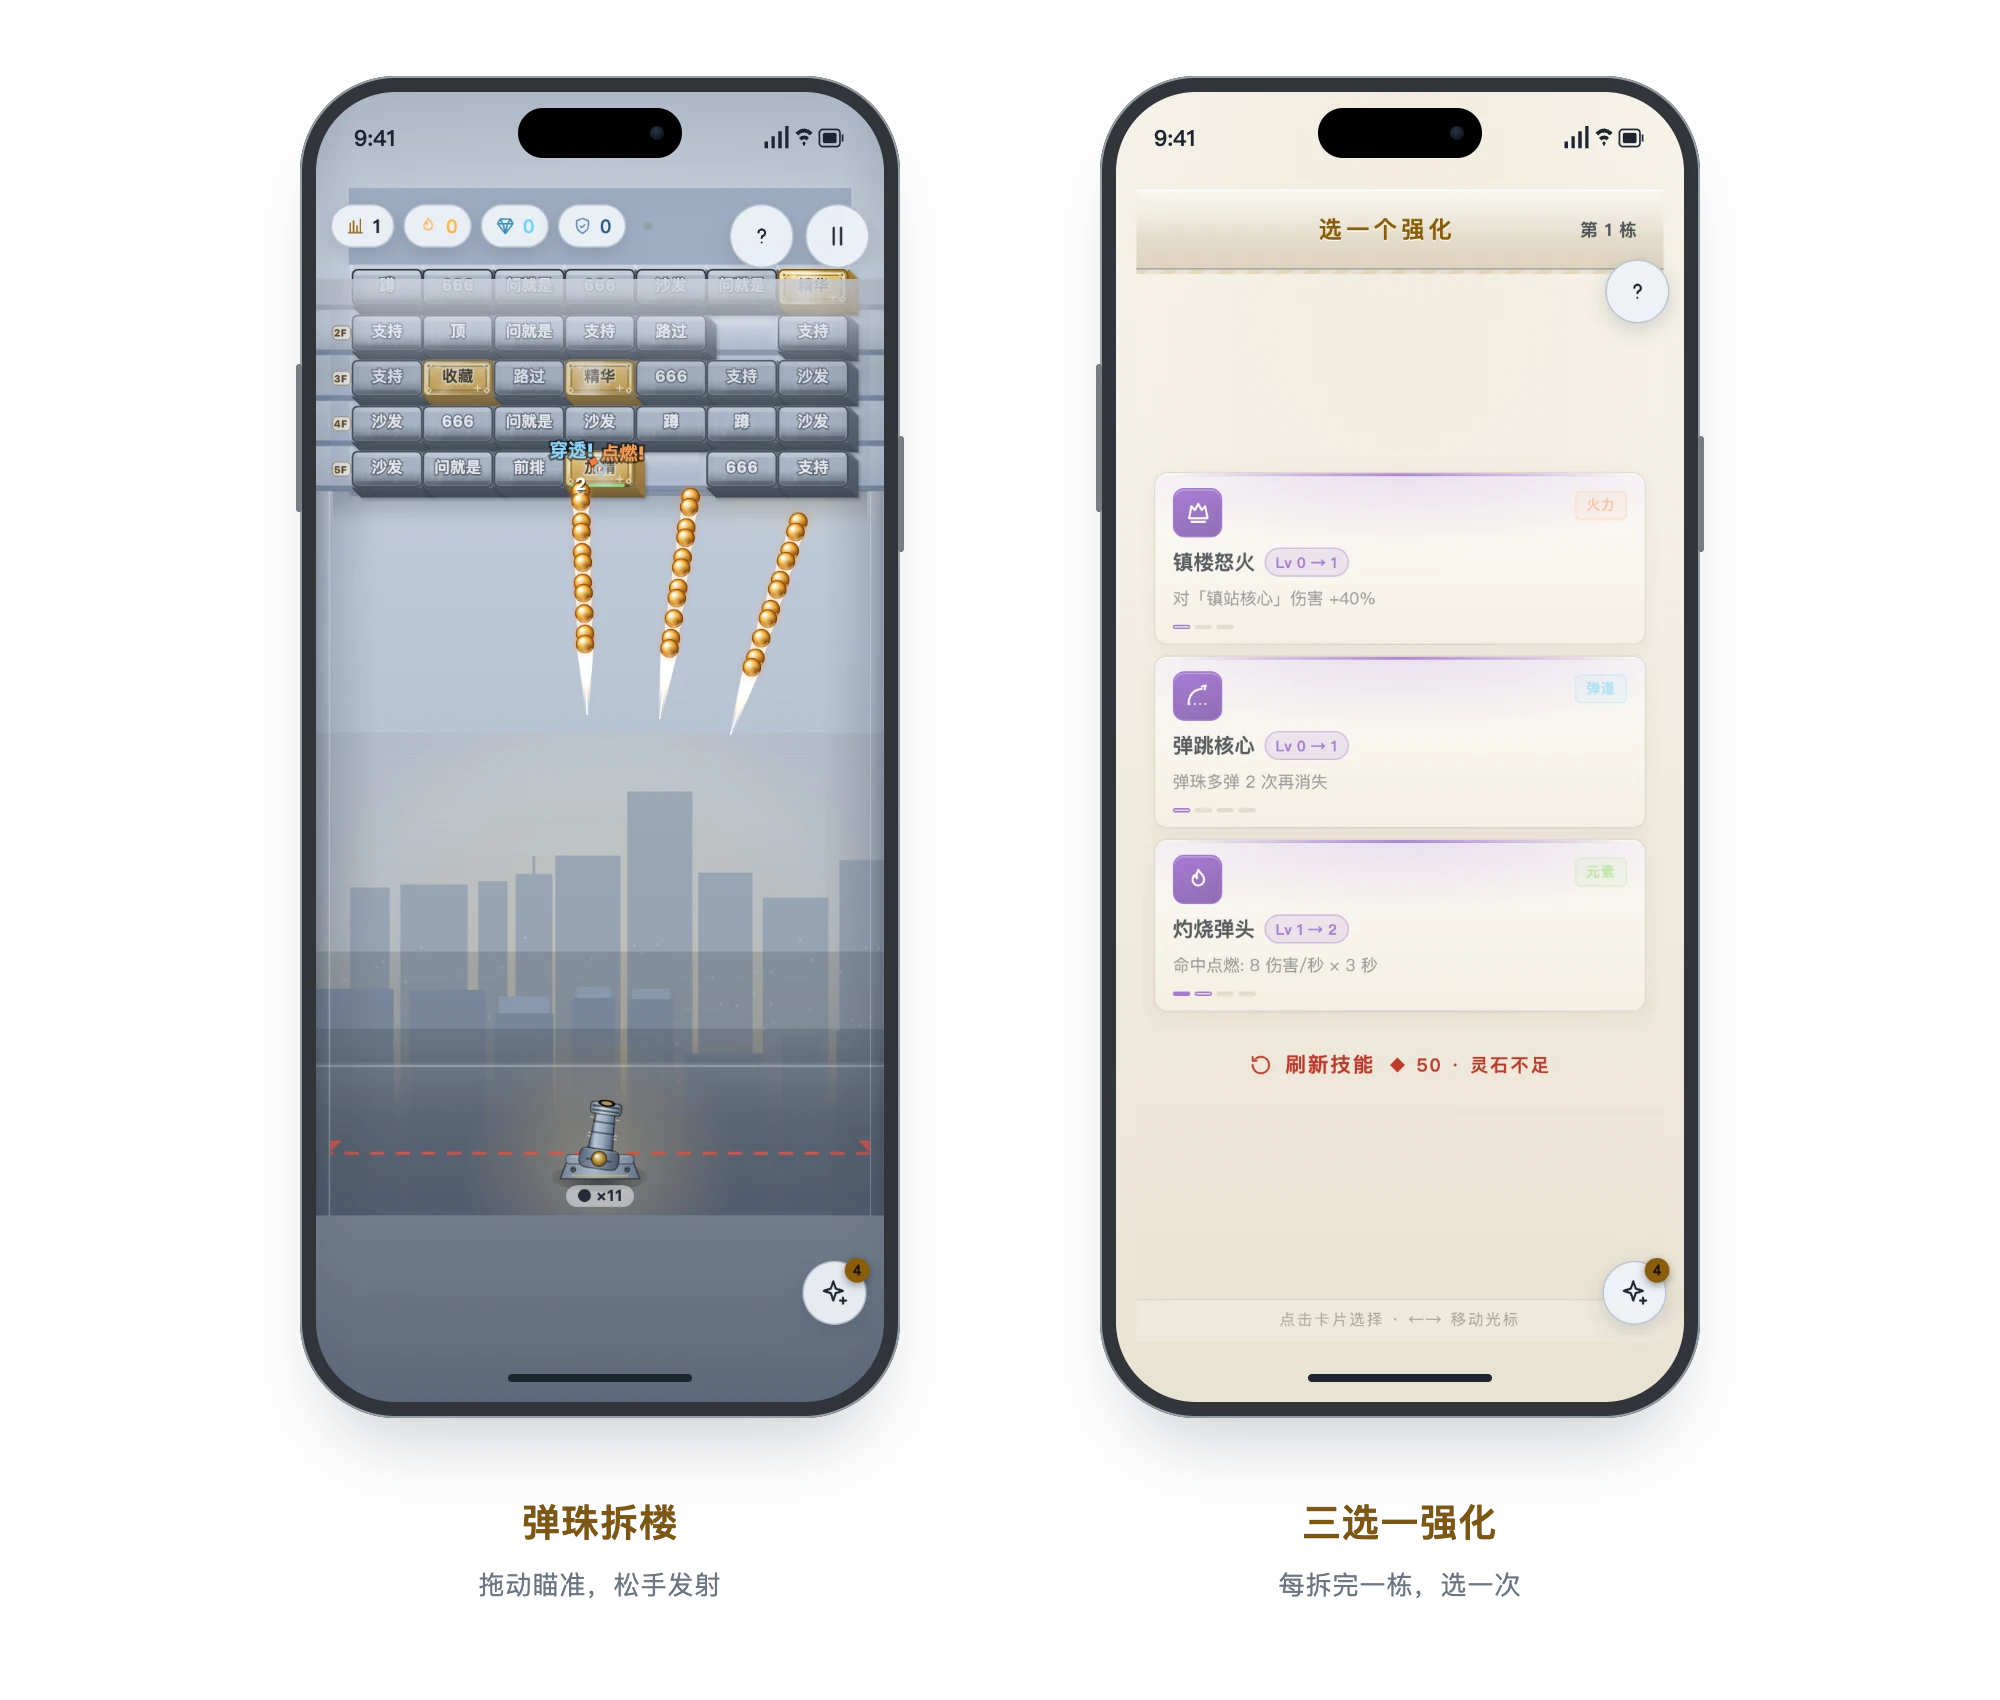
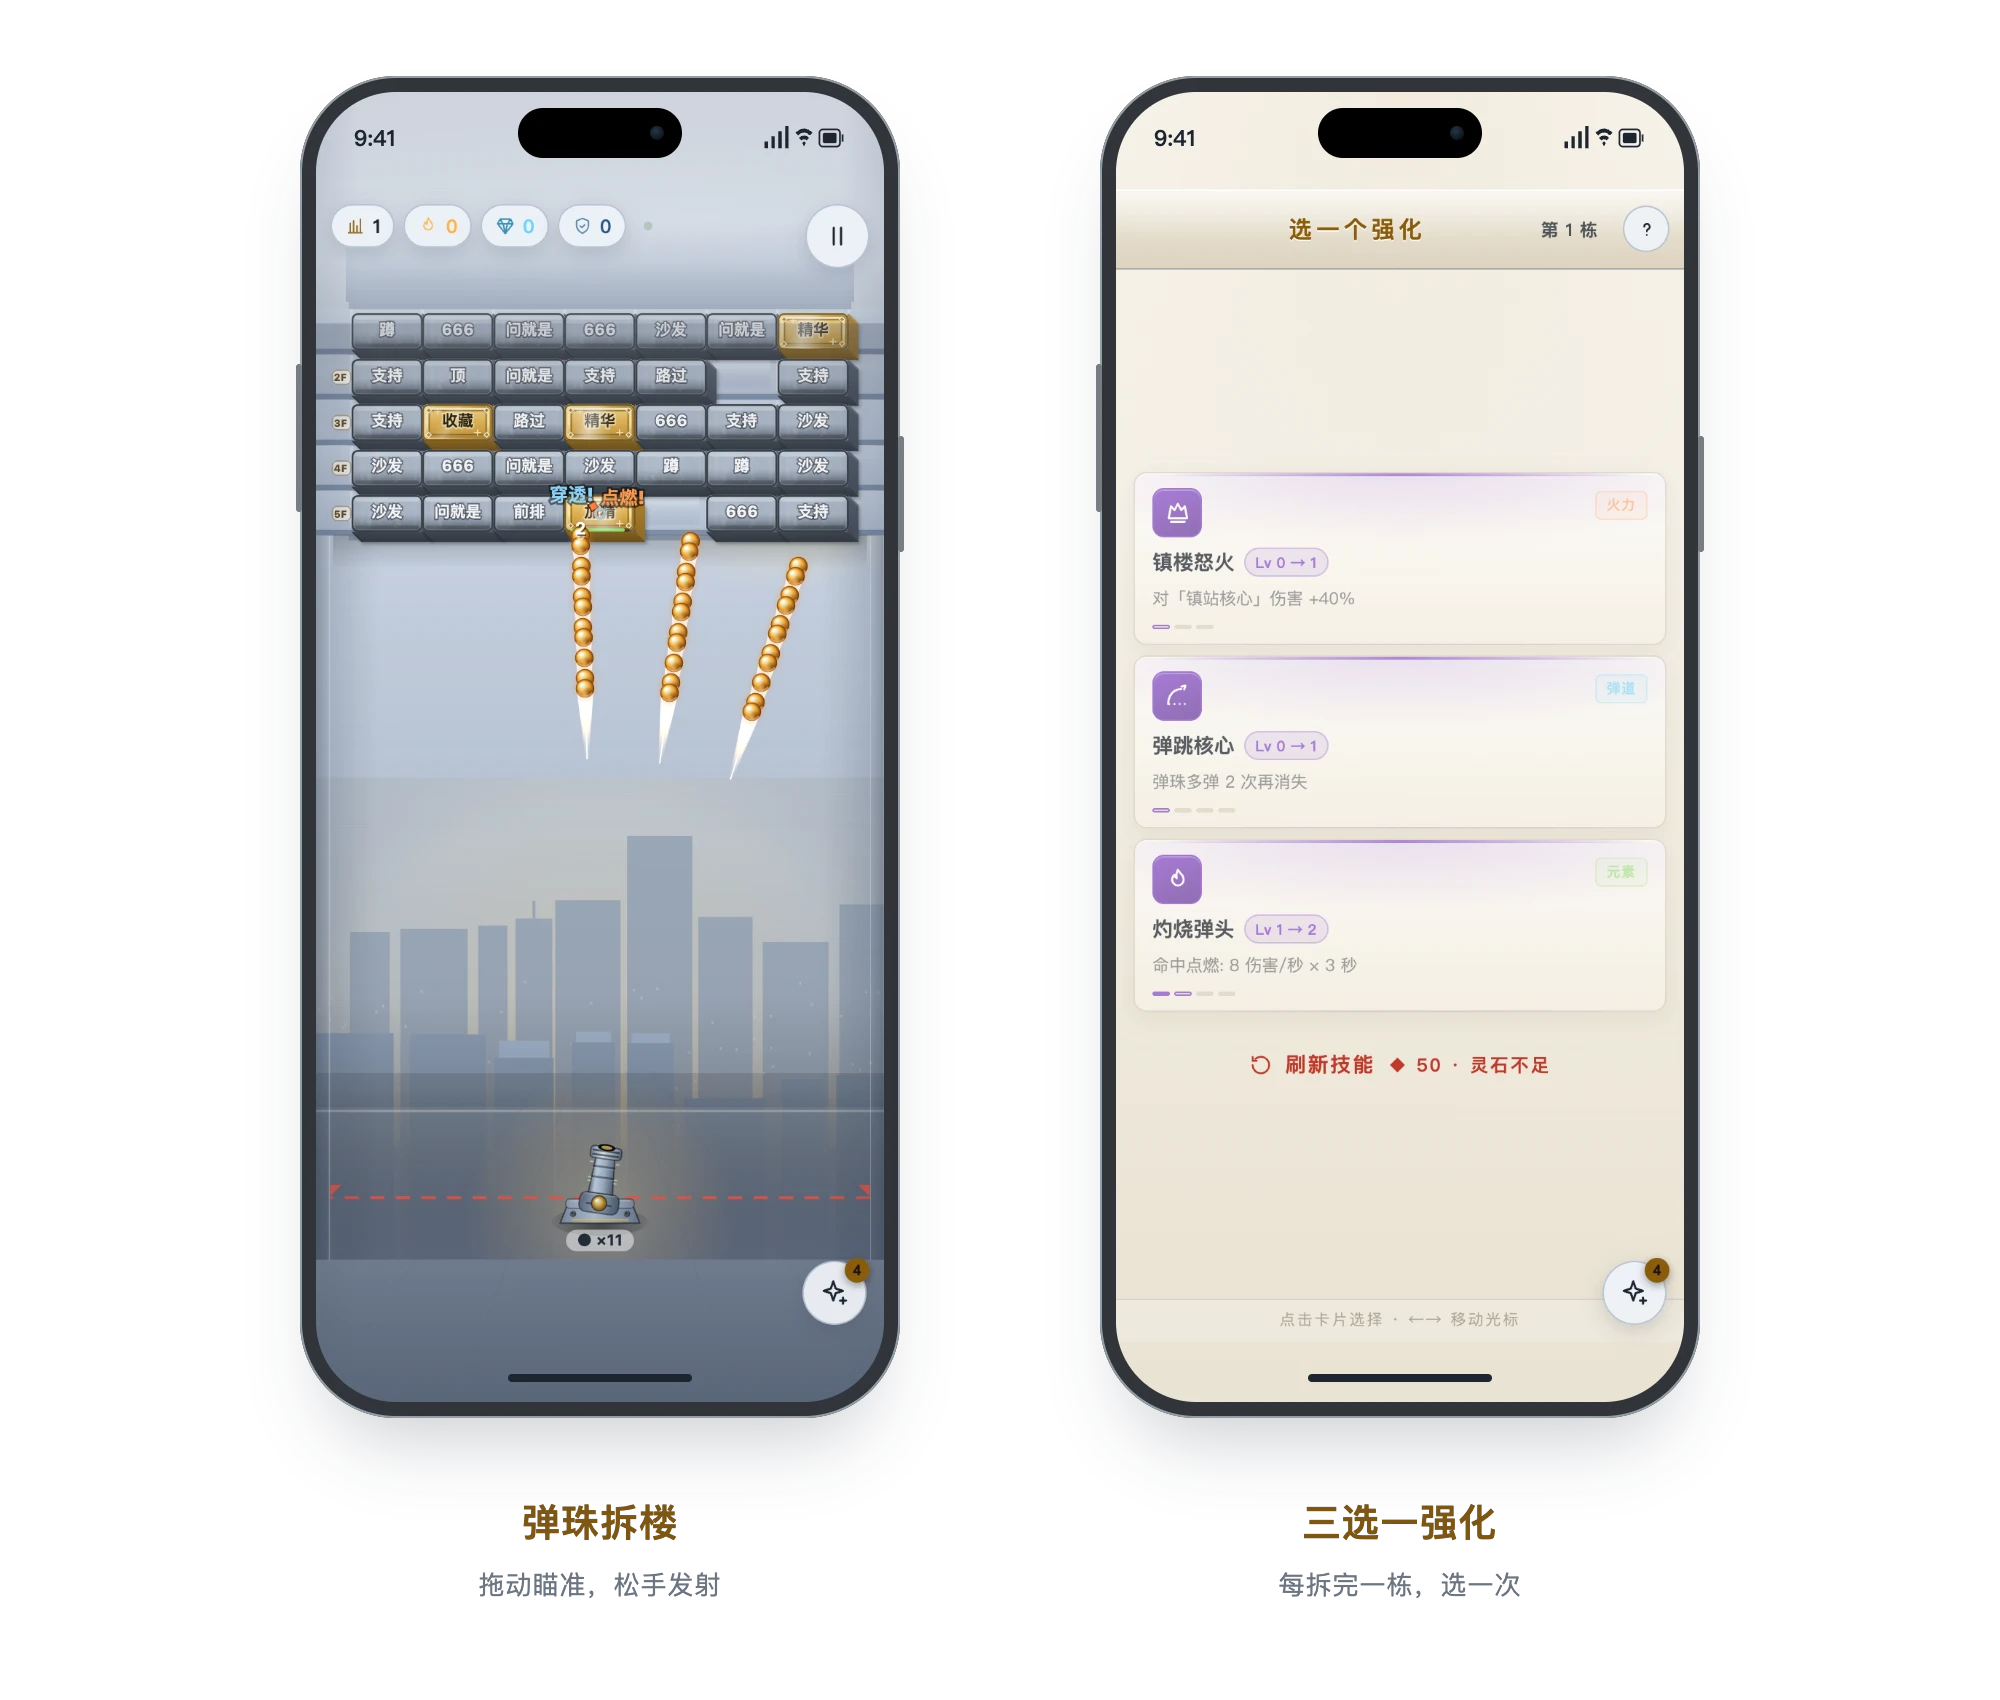
fix(render): 楼体顶端连续浮现+地面延伸填满下边距;对局内可进设置
- drawTopFade 改为设备空间连续渐变:从画布顶(刘海/徽章后)一直淡到场地顶下 76 逻辑像素,楼体滑入不再有分段硬边
- 场地纵向位置下偏(62% 边距在上方):上方留更多天空,下方少留空地
- 地面层向下延伸到画布底边(湿沥青/反光/透视地线连续),底部不再是一片空色
- 楼体背板顶部 56px 渐隐入天空、上边界放宽 5 行;砖块剔除随之放宽
- 深度雾再减淡(0.34→0.16/0.10),不再像蒙纱
- 暂停面板新增「设置」入口,从暂停进设置返回仍回暂停面板

diff --git a/src/render/draw.ts b/src/render/draw.ts
@@ -478,11 +478,13 @@ export function createRenderer(canvas: HTMLCanvasElement): Renderer {
       return;
     }
     // Contain the playfield in the canvas (uniform scale keeps every sprite
-    // blit 1:1), then centre it; leftover space is filled by scenery margins.
+    // blit 1:1). Vertical placement is biased toward the top: the sky above
+    // the tower is scenery worth showing, while extra bare asphalt below the
+    // cannon just reads as empty space.
     const fit = Math.min(cw / W, ch / H);
     scale = fit;
     viewOx = Math.round((cw - W * fit) / 2);
-    viewOy = Math.round((ch - H * fit) / 2);
+    viewOy = Math.round((ch - H * fit) * 0.62);
     extL = viewOx / fit;
     extR = (cw - viewOx - W * fit) / fit;
     extT = viewOy / fit;
@@ -596,10 +598,11 @@ export function createRenderer(canvas: HTMLCanvasElement): Renderer {
       for (let i = 0; i < 90; i++) {
         s.fillRect(-extL + rngFar() * extW, H - 200 + rngFar() * 130, 1.6, 2);
       }
-      // Tower shadow column: darkens the city behind the playfield.
+      // Tower shadow column: darkens the city behind the playfield. Ramps in
+      // from zero so the band's top edge never shows as a hard line.
       s.fillStyle = linGrad(s, 0, TOWER_TOP, 0, H, [
-        [0, `rgba(0,0,0,${towerShadowAlpha(TOWER_TOP, dark)})`],
-        [0.4, `rgba(0,0,0,${towerShadowAlpha(TOWER_TOP + (H - TOWER_TOP) * 0.4, dark)})`],
+        [0, "rgba(0,0,0,0)"],
+        [0.25, `rgba(0,0,0,${towerShadowAlpha(TOWER_TOP + (H - TOWER_TOP) * 0.25, dark)})`],
         [1, `rgba(0,0,0,${towerShadowAlpha(H, dark)})`],
       ]);
       s.fillRect(0, TOWER_TOP, W, H - TOWER_TOP);
@@ -642,24 +645,28 @@ export function createRenderer(canvas: HTMLCanvasElement): Renderer {
           if (seg.h > 70) s.fillRect(seg.x + 40 + seg.w / 2 - 1, H - 74 - seg.h - 3, 2, 2);
         }
       }
-      // Bake the tower shadow into this band as well.
+      // Bake the tower shadow into this band as well (ramped from zero, same
+      // reason as the backdrop column).
       s.fillStyle = linGrad(s, 0, NEAR_BAND_TOP, 0, H, [
-        [0, `rgba(0,0,0,${towerShadowAlpha(NEAR_BAND_TOP, dark)})`],
+        [0, "rgba(0,0,0,0)"],
+        [0.4, `rgba(0,0,0,${towerShadowAlpha(NEAR_BAND_TOP + NEAR_BAND_H * 0.4, dark)})`],
         [1, `rgba(0,0,0,${towerShadowAlpha(H, dark)})`],
       ]);
       s.fillRect(0, NEAR_BAND_TOP, W + 80, NEAR_BAND_H);
     }
 
     // ---- Ground band: haze + wet asphalt with reflections. Extended to the
-    // full logical width so side margins keep the asphalt plane.
+    // full logical width and down through the bottom margin, so the asphalt
+    // plane runs all the way to the canvas edge (no empty strip below).
+    const groundH = GROUND_H + Math.max(0, extB);
     groundLayer = document.createElement("canvas");
     groundLayer.width = Math.max(1, Math.ceil(extW * scale));
-    groundLayer.height = Math.ceil(GROUND_H * scale);
+    groundLayer.height = Math.ceil(groundH * scale);
     {
       const s = groundLayer.getContext("2d")!;
       s.scale(scale, scale);
       s.translate(extL, -(H - GROUND_H));
-      const fh = GROUND_H;
+      const fh = groundH;
       const top = H - fh;
       // Haze fading the skyline base into the ground.
       s.fillStyle = linGrad(s, 0, H - 120, 0, H, [
@@ -667,13 +674,13 @@ export function createRenderer(canvas: HTMLCanvasElement): Renderer {
         [1, dark ? "rgba(6,9,18,0.85)" : "rgba(90,104,128,0.45)"],
       ]);
       s.fillRect(-extL, H - 120, extW, 120);
-      // Wet asphalt.
-      s.fillStyle = linGrad(s, 0, H - 108, 0, H, [
+      // Wet asphalt, running past the field bottom into the margin.
+      s.fillStyle = linGrad(s, 0, H - 108, 0, H + Math.max(0, extB), [
         [0, dark ? "rgba(10,15,28,0.55)" : "rgba(150,162,180,0.35)"],
         [0.35, dark ? "rgba(6,10,20,0.9)" : "rgba(116,128,148,0.55)"],
         [1, dark ? "rgba(3,5,11,0.98)" : "rgba(92,104,124,0.7)"],
       ]);
-      s.fillRect(-extL, H - 108, extW, 108);
+      s.fillRect(-extL, H - 108, extW, 108 + Math.max(0, extB));
       if (dark) {
         // Reflected window lights as soft vertical streaks.
         for (const light of SKYLINE_LIGHTS) {
@@ -738,6 +745,7 @@ export function createRenderer(canvas: HTMLCanvasElement): Renderer {
     }
 
     // ---- Depth-fog band for far tower rows (drawn over the bricks).
+    // Kept whisper-subtle: a heavy veil reads as a dirty overlay on fullscreen.
     fogLayer = document.createElement("canvas");
     fogLayer.width = Math.ceil((W - WALL * 2) * scale);
     fogLayer.height = Math.ceil(H * 0.5 * scale);
@@ -745,8 +753,9 @@ export function createRenderer(canvas: HTMLCanvasElement): Renderer {
       const s = fogLayer.getContext("2d")!;
       s.scale(scale, scale);
       const color = dark ? "20,28,62" : "150,165,195";
+      const fogAlpha = dark ? 0.16 : 0.1;
       const fog = s.createLinearGradient(0, 0, 0, H * 0.5);
-      fog.addColorStop(0, `rgba(${color},0.34)`);
+      fog.addColorStop(0, `rgba(${color},${fogAlpha})`);
       fog.addColorStop(1, `rgba(${color},0)`);
       s.fillStyle = fog;
       s.fillRect(0, 0, W - WALL * 2, H * 0.5);
@@ -1646,16 +1655,18 @@ export function createRenderer(canvas: HTMLCanvasElement): Renderer {
       ctx.drawImage(mistLayer, m - 40, H - 116, period, 112);
       ctx.globalAlpha = 1;
     }
-    if (groundLayer) ctx.drawImage(groundLayer, -extL, H - GROUND_H, extW, GROUND_H);
+    if (groundLayer) ctx.drawImage(groundLayer, -extL, H - GROUND_H, extW, GROUND_H + Math.max(0, extB));
 
-    // Perspective floor lines converging toward the vanishing point.
+    // Perspective floor lines converging toward the vanishing point, starting
+    // from the canvas bottom edge so the ground keeps its depth in the margin.
     ctx.strokeStyle = palette.mode === "dark" ? "rgba(140,160,210,0.08)" : "rgba(70,90,120,0.10)";
     ctx.lineWidth = 1;
+    const floorY = H + Math.max(0, extB);
     for (const [fx, fy] of [
-      [-extL, H],
-      [-extL + extW * 0.25, H],
-      [-extL + extW * 0.75, H],
-      [W + extR, H],
+      [-extL, floorY],
+      [-extL + extW * 0.25, floorY],
+      [-extL + extW * 0.75, floorY],
+      [W + extR, floorY],
     ]) {
       ctx.beginPath();
       ctx.moveTo(fx, fy);
@@ -1871,7 +1882,8 @@ export function createRenderer(canvas: HTMLCanvasElement): Renderer {
 
   function drawBrick(brick: BoardBrick, offset: number, hpFraction: number): void {
     const y = brick.y + offset;
-    if (y > H + BRICK_H + EX || y + brick.h + EX < -BRICK_H) return;
+    // 允许画到场地顶以上的天空边距里（楼体滑入时可见），配合顶端连续渐隐。
+    if (y > H + BRICK_H + EX || y + brick.h + EX < -ROW_PITCH_PX * 5) return;
     if (brick.kind === "core" && coreAuraSprite) {
       const alpha =
         (palette.reducedMotion ? 0.42 : 0.4 + 0.18 * Math.sin(time * 1.8)) *
@@ -2615,33 +2627,54 @@ export function createRenderer(canvas: HTMLCanvasElement): Renderer {
     const left = GRID_LEFT - 4;
     const width = COLS * BRICK_W + 8;
     const dark = palette.mode === "dark";
-    const bodyTop = Math.max(-ROW_PITCH_PX * 2, TOWER_TOP + offset - ROW_PITCH_PX * 2);
+    const bodyTop = Math.max(-ROW_PITCH_PX * 5, TOWER_TOP + offset - ROW_PITCH_PX * 2);
     const bodyBottom = Math.min(H + 4, TOWER_TOP + (spec.rows - 1) * ROW_PITCH_PX + offset + ROW_PITCH_PX);
     if (bodyBottom > bodyTop) {
-      ctx.fillStyle = dark ? "#070c15" : "#9fadc2";
-      ctx.fillRect(left, bodyTop, width, bodyBottom - bodyTop);
+      // Slab melts into the sky at its top edge: 56px ramp instead of a hard
+      // cut line (the tower slides down through it during spawn).
+      const slab = dark ? "#070c15" : "#9fadc2";
+      const slabRamp = ctx.createLinearGradient(0, bodyTop, 0, bodyTop + 56);
+      slabRamp.addColorStop(0, dark ? "rgba(7,12,21,0)" : "rgba(159,173,194,0)");
+      slabRamp.addColorStop(1, slab);
+      ctx.fillStyle = slabRamp;
+      ctx.fillRect(left, bodyTop, width, Math.min(56, bodyBottom - bodyTop));
+      if (bodyBottom - bodyTop > 56) {
+        ctx.fillStyle = slab;
+        ctx.fillRect(left, bodyTop + 56, width, bodyBottom - bodyTop - 56);
+      }
       ctx.fillStyle = dark ? "rgba(120,150,200,0.14)" : "rgba(255,255,255,0.4)";
-      ctx.fillRect(left, bodyTop, 2, bodyBottom - bodyTop);
-      ctx.fillRect(left + width - 2, bodyTop, 2, bodyBottom - bodyTop);
+      const railTop = bodyTop + 56;
+      ctx.fillRect(left, railTop, 2, bodyBottom - railTop);
+      ctx.fillRect(left + width - 2, railTop, 2, bodyBottom - railTop);
     }
     if (facadeUnit) {
       for (let row = 0; row < spec.rows; row++) {
         const y = TOWER_TOP + row * ROW_PITCH_PX + offset - 3;
-        if (y > H || y + ROW_PITCH_PX < -4) continue;
+        if (y > H || y + ROW_PITCH_PX < -ROW_PITCH_PX * 5) continue;
         ctx.drawImage(facadeUnit, 0, y, W, ROW_PITCH_PX);
       }
     }
   }
 
-  /** Dissolve the top edge so the tower descends out of darkness. */
+  /**
+   * Dissolve the tower while it slides in at the top. Spanned in DEVICE space
+   * from the canvas top (behind the notch / HUD chips) down to 76 logical px
+   * into the field, so the margin part and the field part share ONE gradient —
+   * no segmented fade line where the field begins.
+   */
   function drawTopFade(): void {
     const dark = palette.mode === "dark";
-    const grad = ctx.createLinearGradient(0, 0, 0, 76);
-    grad.addColorStop(0, dark ? "rgba(3,5,10,0.85)" : "rgba(238,241,246,0.8)");
-    grad.addColorStop(0.55, dark ? "rgba(3,5,10,0.28)" : "rgba(238,241,246,0.22)");
+    const end = viewOy + 76 * scale;
+    if (end <= 0) return;
+    const grad = ctx.createLinearGradient(0, 0, 0, end);
+    grad.addColorStop(0, dark ? "rgba(3,5,10,0.88)" : "rgba(238,241,246,0.8)");
+    grad.addColorStop(0.5, dark ? "rgba(3,5,10,0.32)" : "rgba(238,241,246,0.28)");
     grad.addColorStop(1, "rgba(3,5,10,0)");
+    ctx.save();
+    ctx.setTransform(1, 0, 0, 1, 0, 0);
     ctx.fillStyle = grad;
-    ctx.fillRect(0, 0, W, 76);
+    ctx.fillRect(0, 0, canvas.width, end);
+    ctx.restore();
   }
 
   // ---------------------------------------------------------- attract mode

diff --git a/src/scenes/pause.ts b/src/scenes/pause.ts
@@ -5,6 +5,7 @@ import type { SceneShell, Translate } from "./types.ts";
 export interface PauseSceneInput {
   onResume(): void;
   onHelp(): void;
+  onSettings(): void;
   onRetreat(): void;
 }
 
@@ -24,6 +25,12 @@ export function showPauseScene(shell: SceneShell, t: Translate, input: PauseScen
         { class: "btn btn--key", style: "--key:#c8b28a", onclick: () => input.onHelp() },
         h("span", { class: "btn__badge" }, icon("help")),
         h("span", { class: "btn__label" }, t("pause.help"))
+      ),
+      h(
+        "button",
+        { class: "btn btn--key", style: "--key:#8fb8ff", onclick: () => input.onSettings() },
+        h("span", { class: "btn__badge" }, icon("gear")),
+        h("span", { class: "btn__label" }, t("menu.settings"))
       ),
       h(
         "button",

diff --git a/src/main.ts b/src/main.ts
@@ -802,6 +802,7 @@ function importBackup(text: string): boolean {
 }
 
 function showSettings(): void {
+  const fromPause = !!run && paused;
   infoReturn = "menu";
   settingsScene({
     settings: meta.settings,
@@ -813,7 +814,8 @@ function showSettings(): void {
     onImport: importBackup,
     onNotice: setNotice,
     onRefresh: showSettings,
-    onBack: showMenu,
+    // 暂停面板进来的设置，返回时回到暂停面板；其余回主页。
+    onBack: fromPause ? showPause : showMenu,
   });
 }
 
@@ -840,6 +842,7 @@ function showPause(): void {
   showPauseScene(shell, t, {
     onResume: resume,
     onHelp: showHelp,
+    onSettings: showSettings,
     onRetreat: () => {
       paused = false;
       endRun(true);
